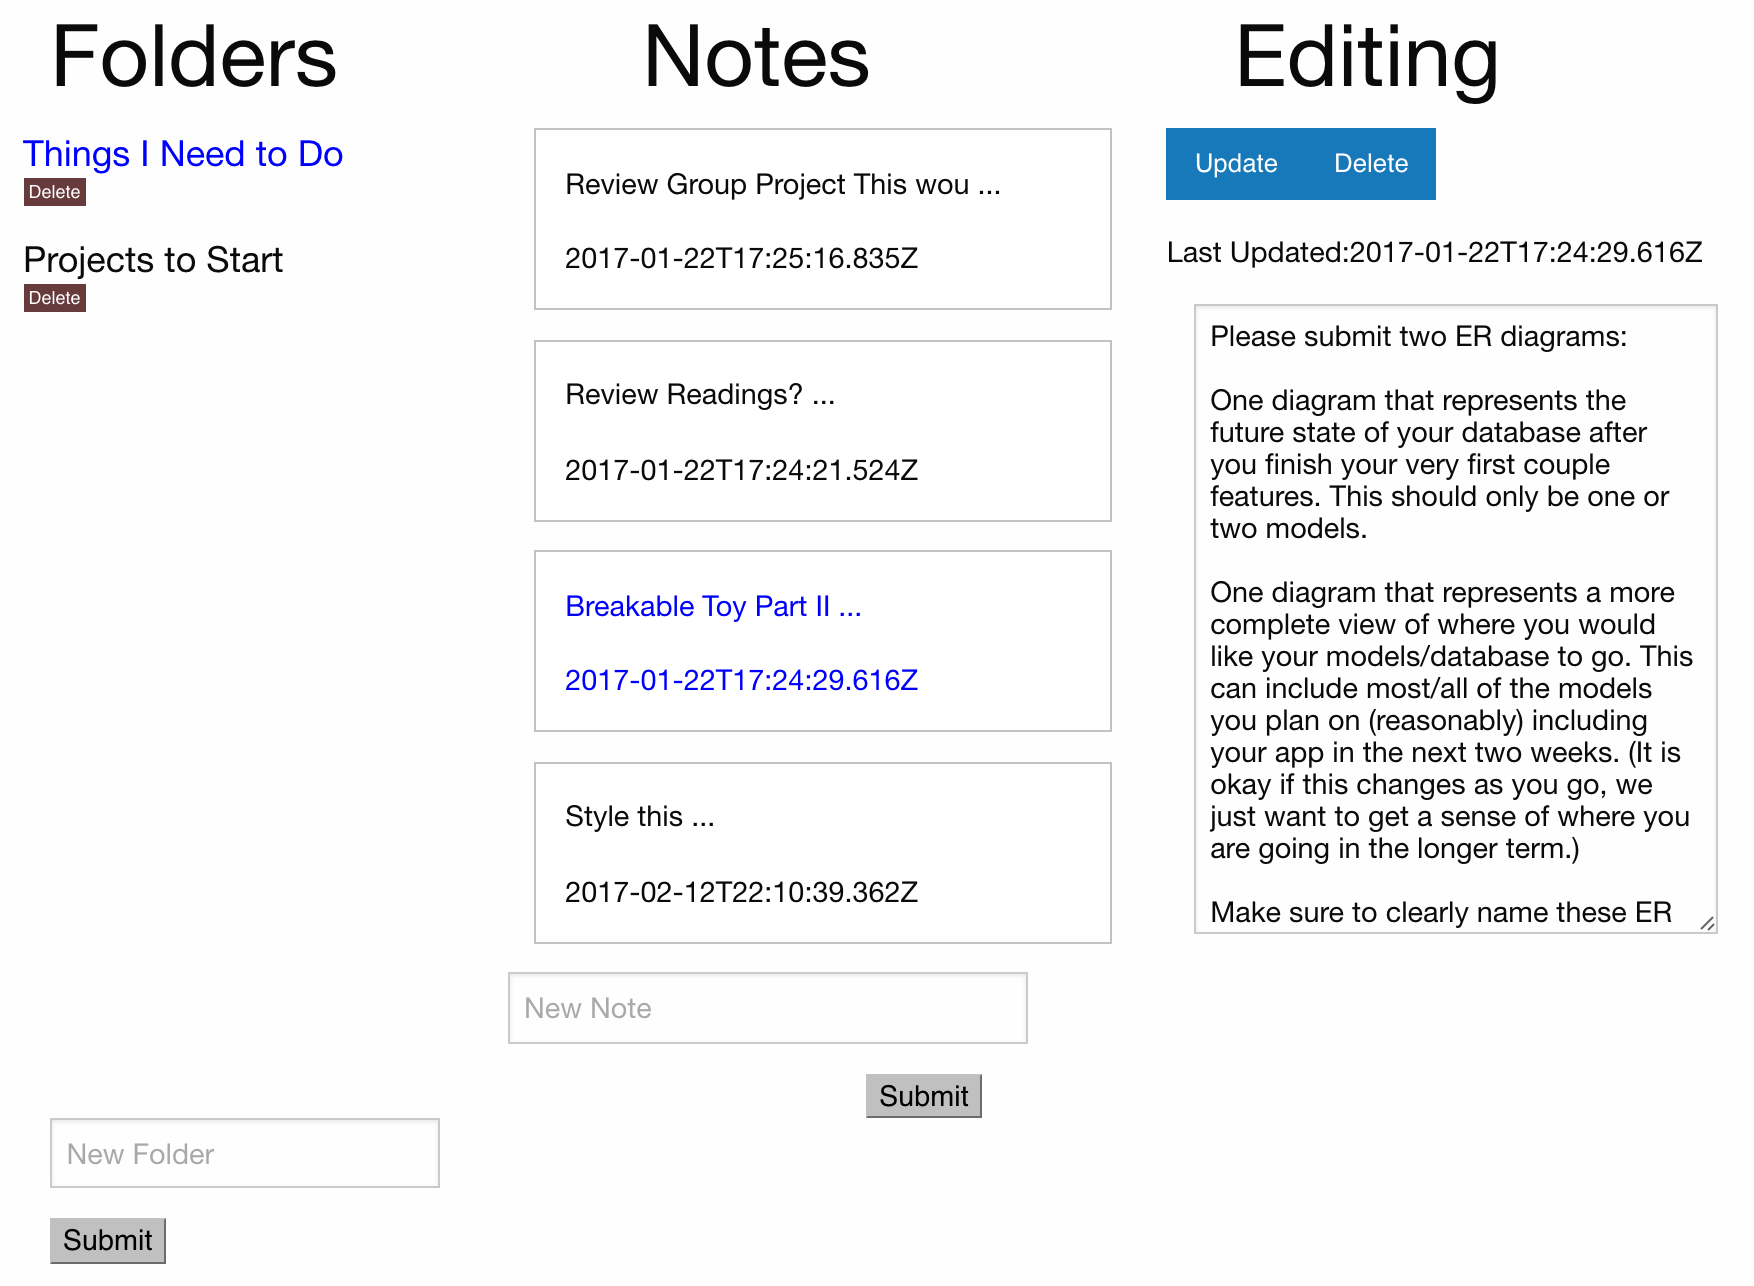
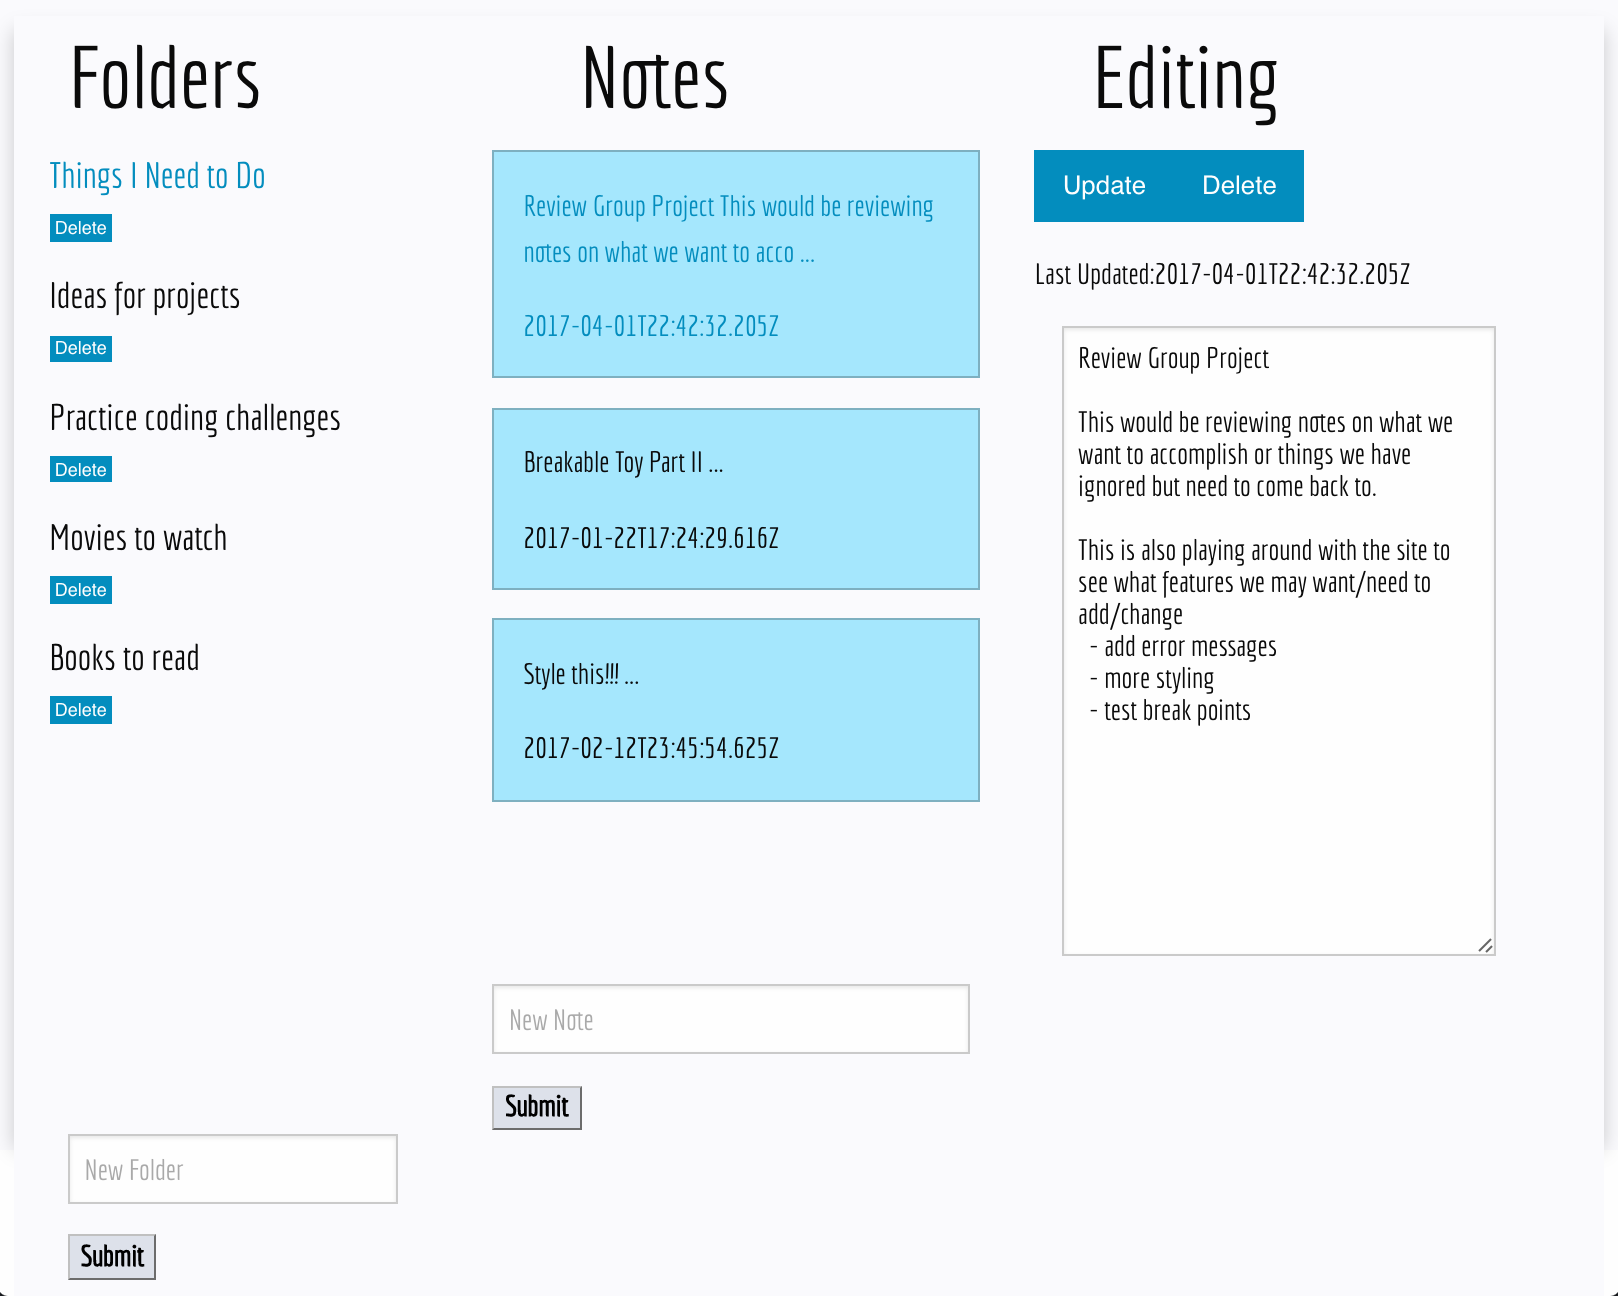
styling and readme update

diff --git a/react/src/components/NotesList.js b/react/src/components/NotesList.js
@@ -8,6 +8,7 @@ class NotesList extends Component {
     this.state = {
       selectedNoteId: null,
       body: "",
+      glow: null,
     };
   this.handleNoteClick = this.handleNoteClick.bind(this);
   this.handleDelete = this.handleDelete.bind(this);
@@ -18,6 +19,7 @@ class NotesList extends Component {
   handleBodyChange(event) {
     let newBody = event.target.value;
     this.setState({ body: newBody });
+    this.setState({ glow: "glow" });
   }
 
   handleNoteUpdate(event) {
@@ -30,7 +32,8 @@ class NotesList extends Component {
       .then(function(response) {
         newNotes = response.json();
         return newNotes;
-      }).then((response) => this.props.handleFolderClick(this.props.selectedFolderId)
+      }).then((response) => this.props.handleFolderClick(this.props.selectedFolderId),
+      this.setState({ glow: null})
       );
   }
 
@@ -73,7 +76,7 @@ class NotesList extends Component {
           <Note
           key={note.id}
           id={note.id}
-          body={note.body.substring(0,30)}
+          body={note.body.substring(0,75)}
           timestamp={note.updated_at}
           handleNoteClick={handleNoteClick}
           className={className}
@@ -97,6 +100,7 @@ class NotesList extends Component {
             handleDelete={this.handleDelete}
             handleBodyChange={this.handleBodyChange}
             handleNoteUpdate={this.handleNoteUpdate}
+            glow={this.state.glow}
             />
           )
         }

diff --git a/app/assets/stylesheets/notes.scss b/app/assets/stylesheets/notes.scss
@@ -36,6 +36,16 @@ p {
   background-color: #038DBE;
 }
 
+@keyframes glowing {
+  0% { background-color: #038DBE; box-shadow: 0 0 5px #038DBE; }
+  50% { background-color: #A5E7FD; box-shadow: 0 0 8px #A5E7FD; }
+  100% { background-color: #038DBE; box-shadow: 0 0 5px #038DBE; }
+}
+
+.glow {
+  animation: glowing 2500ms infinite;
+}
+
 #editing {
   height: 350px;
 }
@@ -56,6 +66,7 @@ input {
   font-family: 'Economica', sans-serif;
   font-weight: bold;
   background-color: #DDE1EA;
+  margin-bottom: 2px;
 }
 
 #folder-names {
@@ -65,7 +76,6 @@ input {
 
 #folder-bar {
   background-color: #FAFAFD;
-  box-shadow: 0px 8px 16px 0px rgba(0,0,0,0.2);
   padding-bottom: 3%;
 }
 

diff --git a/react/src/components/NoteForm.js b/react/src/components/NoteForm.js
@@ -7,10 +7,15 @@ const NoteForm = (props) => {
     body = props.body;
   }
 
+  let glow;
+  if (props.glow) {
+    glow = "glow";
+  }
+
   return(
     <div>
       <div>
-        <button id="update" className="button" onClick={props.handleNoteUpdate}>Update</button>
+        <button id="update" className={`${glow} button`} onClick={props.handleNoteUpdate}>Update</button>
 
         <button id="delete" className="button" onClick={props.handleDelete}>Delete</button>
 
